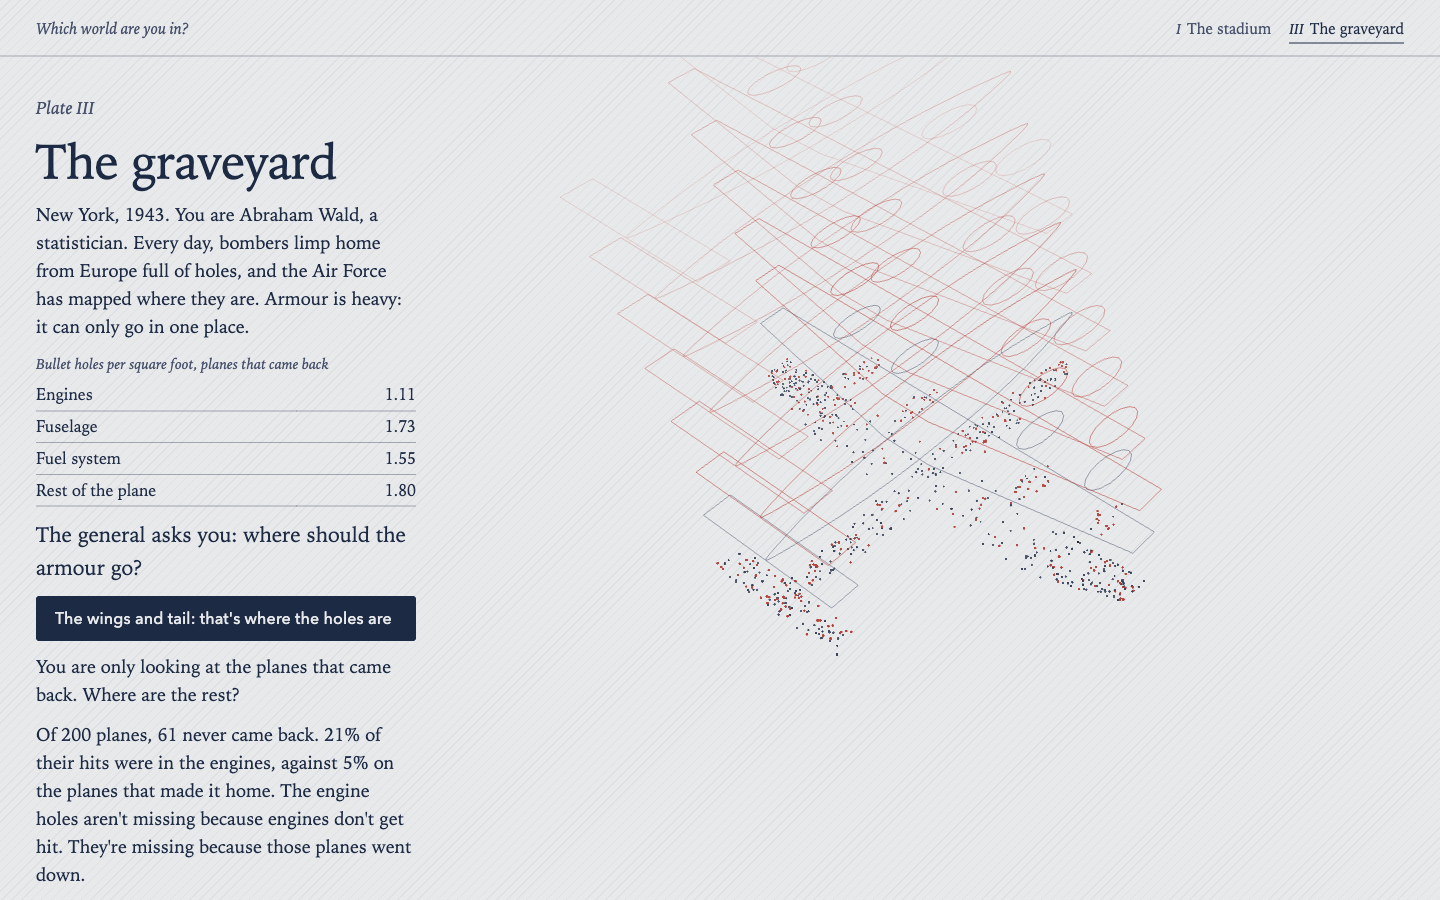
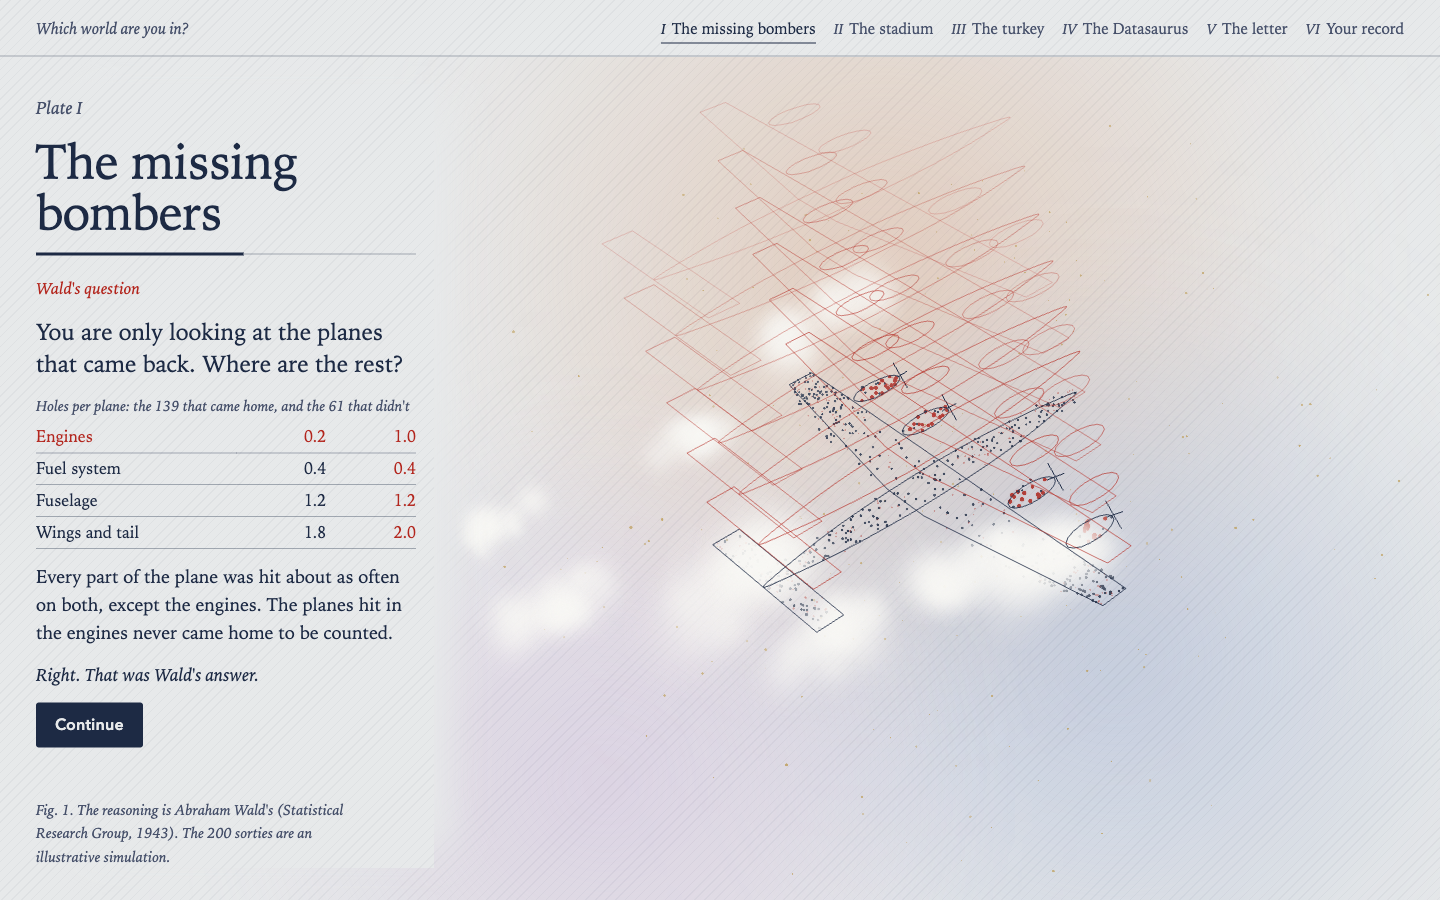
which-world v5: README (bullet count, dreamy look), talk script led by the bombers, gallery image and log
Claude-Session: https://claude.ai/code/session_01Y9Tr48LEf9MKr9XoCG55gA

diff --git a/which-world/index.html b/which-world/index.html
@@ -987,7 +987,7 @@ plates.letter = (() => {
     await s.cont(); if (!s.alive()) return;
     s.card("She sits down holding the letter from the screening service. Her hands are shaking. She hasn't opened it.", "11:42 am");
     await s.cont("Open the letter"); if (!s.alive()) return;
-    s.card("POSITIVE", "The letter"); const l = host$("letter").querySelector(".card .line"); if (l) l.className = "big madder";
+    s.card("POSITIVE", "11:43 am"); const l = host$("letter").querySelector(".card .line"); if (l) l.className = "big madder";
     s.say("The disease is rare: 1 person in 100 has it. The test catches 90% of real cases, and wrongly flags 10% of healthy people.");
     s.say("Sarah looks up at you: <em>“Doctor, how worried should I be?”</em>");
     s.ask("What do you tell her?");

diff --git a/which-world/README.md b/which-world/README.md
@@ -1,33 +1,61 @@
 # Which world are you in?
 
-Six short stories about data, told one card at a time, plus a record of the choices you
-make in them. In each story you take the seat: a stadium engineer, a turkey, Abraham
-Wald, an analyst, a health minister, a GP. The build-up comes a card at a time, each
-one a new shot in the 3D scene. You act with your own hands: open the gates, eat
-breakfast, turn the damaged bomber over, open the letter. Then you make the big call,
-watch it play out, and read the moral of the story.
+Five short stories about data, told one card at a time, plus a record of the choices you
+make in them. In each story you take the seat: Abraham Wald in 1943, a stadium engineer,
+a turkey, an analyst, a GP. The build-up comes a card at a time, each one a new shot in
+the 3D scene. You act with your own hands: open the gates, eat breakfast, turn the
+damaged bomber around, open the letter. Then you make the big call, watch it play out,
+and read the moral of the story.
 
 The stories come from Nassim Taleb's *The Black Swan* and David Spiegelhalter's *The Art
-of Statistics*. The thread through them: Spiegelhalter's statistics tame one kind of
-randomness (*Mediocristan*), Taleb shows where that breaks (*Extremistan*), and a
-better picture is often half the insight.
+of Statistics*, plus Wald's bombers. The thread through them: Spiegelhalter's statistics
+tame one kind of randomness (*Mediocristan*), Taleb shows where that breaks
+(*Extremistan*), and a better picture is often half the insight.
 
-It is drawn in three.js as an engraved atlas: ink on paper, madder red for the extreme
-case, and one black swan hidden in every plate. A single crowd of 1,024 ink dots re-forms
-into each story's scene. You can drag any scene to look around.
+It is drawn in three.js as a dreamy, hand-inked atlas, somewhere between art and chart:
+- ink on paper, with watercolour washes drifting behind each scene;
+- points that glow and float, and gold dust in the air;
+- hairlines drawn twice, slightly off, as if by hand;
+- paper clouds and paper lanterns;
+- madder red for the extreme case, and one black swan hidden in every plate.
+
+A single crowd of 1,024 ink points re-forms into every scene: a murmuration on the title
+page, a bomber's bullet holes, a stadium, a tower of days, a dinosaur, a thousand
+fireflies. You can drag any scene to look around.
 
 **Open:** `index.html`, straight from disk, no server or network needed.
 Live: https://l69d.github.io/art-of-data/which-world/
 
 | plate | your seat | what you do | the decision | what plays out | source |
 |---|---|---|---|---|---|
-| I. The stadium | the engineer, then the fundraiser | open the gates; hold to raise a fortune | reinforce the stand? who to spend the night with? | the heaviest fan adds 0.5%; the richest guest holds 99.9%, a column 18 km tall at this scale; then a log scale | Taleb, ch. 3 |
-| II. The turkey | the turkey | eat breakfast; let the days pass | day 1,000: relax, stay alert, run? | 1,000 fed days climb a spiral tower under a rising sun; day 1,001 falls | Taleb, ch. 4 |
-| III. The graveyard | Abraham Wald, 1943; then a pension fund for 40,000 nurses | turn the bomber over | where to armour? hire the 10-year genius? | the missing planes rise as a ghost formation, hit in the engines; 1 of 1,024 coin-flippers keeps a perfect record | Wald via Ellenberg; Taleb, ch. 8 |
+| I. The missing bombers | Abraham Wald, New York, 1943 | watch the planes come home; turn the bomber around | where should the armour go? | the planes that never came back rise as a red ghost formation, hit in the engines, and drift away into the clouds | Wald, 1943 |
+| II. The stadium | the engineer, then the fundraiser | open the gates; hold to raise a fortune | reinforce the stand? who to spend the night with? | the heaviest fan adds 0.5%; the richest guest holds 99.9%, a column 18 km tall at this scale; then a log scale | Taleb, ch. 3 |
+| III. The turkey | the turkey | eat breakfast; let the days pass | day 1,000: relax, stay alert, run? | 1,000 fed days climb a spiral tower under a rising sun; day 1,001 falls | Taleb, ch. 4 |
 | IV. The Datasaurus | an analyst | open five branch reports | agree with the boss? | a cloud lifts off the page and flattens into a dinosaur, a star, a circle, a bullseye, an X | Spiegelhalter, ch. 2 |
-| V. The league table | the health minister | answer the phone; face the cameras | inspect, sack, or ask for a funnel plot? | the press pack becomes a skyline of 380 districts, then a funnel: the "worst" is small, the outlier ranked 6th | Spiegelhalter, ch. 9 |
-| VI. The positive test | a GP, then a press officer and a headline writer | open Sarah's letter | what do you tell her? which words do you print? | 9 of 108 positives are real (8%), and Sarah is one of the false alarms; "5% die" vs "95% survive"; "+18%" vs 6 → 7 in 100 | Spiegelhalter, ch. 1, 2, 8 |
-| VII. Your record | | | | every choice, marked, with its world and a verdict | |
+| V. The letter | a GP, then a press officer and a headline writer | open Sarah's letter | what do you tell her? which words do you print? | a thousand fireflies take the test: 9 of 108 positives are real (8%), and Sarah is one of the false alarms; "5% die" vs "95% survive"; "+18%" vs 6 → 7 in 100 | Spiegelhalter, ch. 1, 2, 8 |
+| VI. Your record | | | | every choice, marked, with its world and a verdict | |
+
+## Wald's bombers, by the bullet count
+
+- **The story:** Abraham Wald's work at the Statistical Research Group in 1943. It is
+  not in either book.
+- **The simulation:** illustrative (`bombers()`, seed 5). There are 200 sorties, each
+  plane takes 1 + Poisson(3) hits, and each hit lands on a part of the airframe in
+  proportion to its area. An engine hit brings a plane down 60% of the time; a hit
+  anywhere else rarely does.
+- **What the page shows:** the average number of bullet holes per plane, part by part
+  (`bomberCounts()`).
+
+| holes per plane | came home (139) | never came back (61) |
+|---|---|---|
+| engines | 0.2 | 1.0 |
+| fuel system | 0.4 | 0.4 |
+| fuselage | 1.2 | 1.2 |
+| wings and tail | 1.8 | 2.0 |
+
+Every part is hit about as often on both groups of planes, except the engines, and that
+comparison doesn't depend on how big each part is. `test_model.mjs` checks it: engines
+hit more than 3× as often on the lost planes; fuselage and wings within 25%.
 
 ## Data and what's simulated
 
@@ -43,29 +71,16 @@ Live: https://l69d.github.io/art-of-data/which-world/
   - Our choices, within those bounds: the heaviest person is 400 kg, which gives 0.5%.
     The other 1,000 hold $80M together, which gives exactly 99.9%.
   - The "18 km" line is the richest fortune divided by the median guest's, at one
-    centimetre per median fortune.
+    centimetre per median fortune. The drawn column is capped; it leaves the frame
+    either way.
   - The crowd is simulated with seed 7.
 - **The turkey** is simulated. Its confidence is Laplace's rule of succession,
   (d+1)/(d+2) after d fed days.
-- **Wald's bombers**:
-  - The story is Abraham Wald's work at the Statistical Research Group in 1943. It is
-    not in either book.
-  - The holes-per-square-foot table (engines 1.11, fuselage 1.73, fuel system 1.55,
-    rest 1.80) is as popularised by Jordan Ellenberg, *How Not to Be Wrong* (2014).
-  - The ink simulation is illustrative: `bombers()`, seed 5, 200 sorties, with engine
-    hits the most lethal.
-  - `test_model.mjs` checks that the planes that came home show far fewer engine hits
-    than all the planes did.
-- **The fund managers** are exact, not simulated. Manager *i*'s ten yearly results are
-  the bits of *i*, so the 1,024 managers are every possible run of ten coin flips.
-- **The league table** is simulated from Spiegelhalter's bowel-cancer example:
-  - 380 districts share a rate of 17 per 100,000, except one large district at 1.6×.
-  - Seed 1 is the first seed where the top of the table sits inside the 99.8% limits
-    and that district is the only one outside them. `test_model.mjs` checks both.
-- **The positive test** uses 90% sensitivity and 90% specificity, as in the book.
-  Sarah is invented. She is the first false alarm among the 1,000 at 1-in-100 prevalence,
-  so her story matches the data. Bacon's "18% higher" lifetime risk goes from 6 in 100
-  to 7 in 100.
+- **The letter:**
+  - The test has 90% sensitivity and 90% specificity, as in the book.
+  - Sarah is invented. She is the first false alarm among the 1,000 at 1-in-100
+    prevalence, so her story matches the data.
+  - Bacon's "18% higher" lifetime risk goes from 6 in 100 to 7 in 100.
 
 ## three.js
 
@@ -79,7 +94,7 @@ and ES modules don't load from `file://`.
 ```sh
 python3 fetch_datasaurus.py   # re-download derived/datasaurus.csv
 python3 test_data.py          # the five Datasaurus sets share their stats
-node test_model.mjs           # every number the stories show, and the inlined data = CSV
+node test_model.mjs           # the key numbers the stories show, and the inlined data = CSV
 ```
 
 The Datasaurus sets are inlined in `index.html`, because a page opened from `file://`
@@ -94,13 +109,15 @@ print('const DINO = {'+','.join(k+':'+str(d[k]).replace(' ','') for k in ['dino'
 
 ## At the booth
 
-- Open it fullscreen in Chrome or Safari. Plates are deep-linkable: `#stadium`,
-  `#turkey`, `#graveyard`, `#dino`, `#funnel`, `#test`, `#record`.
+- Open it fullscreen in Chrome or Safari, on a laptop with a real graphics chip. The
+  scenes are gentle but continuous, and headless or software rendering will crawl.
+- Plates are deep-linkable: `#bombers`, `#stadium`, `#turkey`, `#dino`, `#letter`,
+  `#record`.
 - Visitors click an option at every "What do you do?". Space presses Continue and the
   "Eat" or "Open the gates" style buttons, and holding Space works the hold buttons. It
   never picks an option for them. ←/→ moves between plates. Dragging any scene turns the
   camera.
-- A full visit takes about 15 minutes. Most visitors will play two or three stories;
+- A full visit takes about 12 minutes. Most visitors will play one to three stories;
   "Your record" works with any number.
 - After 60 seconds without input the page returns to the title for the next visitor,
   which also clears their record. Add `?talk` to switch that off while presenting.

diff --git a/which-world/TALK.md b/which-world/TALK.md
@@ -1,58 +1,55 @@
 # Talk: Which world are you in? (about 3 minutes)
 
 Open `index.html?talk` fullscreen. Hand the judges the mouse: they make every choice,
-and you read the cards aloud and press Space. The script plays Plate I and the heart of
-Plate III, then shows the record.
+and you read the cards aloud and press Space. The script plays Plate I, the missing
+bombers, in full, shows one moment from the stadium, then shows the record.
 
 ## 0:00 Open (15 s)
 
-*Title plate, with the stadium turning slowly.*
+*The title plate: a murmuration of ink birds, one black swan among them.*
 
-> "Six short stories about data. In each one, you sit in someone's seat and make the
+> "Five short stories about data. In each one you sit in someone's seat and make the
 > call. Take the mouse."
 
-## 0:15 The stadium (70 s)
+## 0:15 The missing bombers (100 s)
 
-*Plate I. Read the cards; let the judge press "Open the gates" and watch the fans pour in.*
+*Plate I. Read the cards; let the formation cross, and the planes come home.*
 
-> "You're the engineer. The heaviest person imaginable just bought the last ticket.
-> What do you do?"
+> "New York, 1943. You're Abraham Wald. Every bomber that doesn't come back is ten men.
+> The Air Force has counted every bullet hole on every plane that came home."
 
-Reveal: **0.5%**. "The stand never noticed."
+At the hangar, point at the table:
 
-> "Midnight. Same thousand people, now at your charity gala. The richest person on Earth
-> walks in. Where do you spend your evening?"
+> "Two holes per plane in the wings and tail. One engine hit for every five planes. Armour
+> is heavy, and the general can protect one place. Where does it go?"
 
-Let the judge **hold** to raise the fortune: the column leaves the sky, **99.9%**, 18 km
-tall at this scale.
+Let the judge choose. Then the red ghost formation rises:
 
-> "Taleb calls these two worlds Mediocristan and Extremistan. Your gut used one rule for
-> both."
+> "These are the planes that never came back. Look at the table: every part was hit
+> about as often on both groups of planes, except the engines. One hit per plane on the
+> planes that went down. The engine holes weren't missing because engines don't get
+> hit. They were missing because those planes never made it home to be counted."
 
-Press "Draw it on a log scale": the thousand come back. "A better picture is half the
-insight."
+Let the ghosts drift into the clouds, and read the moral.
 
-## 1:25 The bomber (60 s)
+## 1:55 The stadium, briefly (40 s)
 
-*Plate III. Skip ahead to "The general's office" with → and Space if time is short.*
+*Press → to Plate II and run it quickly, or just describe it.*
 
-> "1943. You're Abraham Wald. The bombers come home with holes everywhere except the
-> engines. Where does the armour go?"
+> "Same trap, other direction. The heaviest person imaginable adds half a percent to a
+> stadium's weight. The richest person on Earth holds 99.9% of the gala's wealth: a
+> column eighteen kilometres tall on this scale. Taleb calls these two worlds
+> Mediocristan and Extremistan, and our gut uses one rule for both."
 
-After the choice, the red ghost formation rises:
+## 2:35 Your record (20 s)
 
-> "The engine holes aren't missing because engines don't get hit. They're missing
-> because those planes went down. The same trap hires fund managers today."
+*Plate VI: the judges' own choices, marked, around a turning globe of ink.*
 
-## 2:25 Your record (25 s)
+> "Every call you made, and the world it belonged to. The turkey, the Datasaurus and
+> Sarah's letter are waiting at the booth. Which world you're in, and how you draw it,
+> decide half the answer."
 
-*Plate VII: the judges' own choices, marked, around a turning globe of ink.*
+## 2:55 Close (5 s)
 
-> "Every call you made, and the world it belonged to. The turkey, the analyst, the
-> minister and the GP are waiting at the booth. Which world you're in, and how you draw
-> it, decide half the answer."
-
-## 2:50 Close (10 s)
-
-> "One offline HTML file in three.js, built with Claude from two books. Every number on
-> screen is checked against them by a test."
+> "One offline HTML file in three.js, built with Claude from two books and a war story.
+> The key numbers on screen are checked by tests."

diff --git a/README.md b/README.md
@@ -11,11 +11,11 @@ the data needs 3D, scale, or motion.
 | piece | dataset | built with |
 |---|---|---|
 | [Shipman deaths by age](https://l69d.github.io/art-of-data/shipman-data/age_by_year.html) | [Shipman Inquiry case decisions](shipman-data/) — 531 deaths, 1974–1998 | SVG + vanilla JS |
-| [Which world are you in?](https://l69d.github.io/art-of-data/which-world/) | [The Datasaurus Dozen, Wald's bombers + figures from *The Black Swan* and *The Art of Statistics*](which-world/) — six stories you play from the driver's seat, and your record | three.js (vendored) + SVG, offline |
+| [Which world are you in?](https://l69d.github.io/art-of-data/which-world/) | [Wald's bombers, the Datasaurus Dozen + figures from *The Black Swan* and *The Art of Statistics*](which-world/) — five dreamy stories you play from the driver's seat | three.js (vendored) + SVG, offline |
 
 ![Shipman deaths by age](shipman-data/shipman-scatter.png)
 
-![Which world are you in? Plate III, the bombers that never came back](which-world/preview.png)
+![Which world are you in? Plate I, the bombers that never came back](which-world/preview.png)
 
 ## Layout
 
@@ -64,3 +64,8 @@ One folder per dataset. Each one holds:
   a ghost formation, a sun over the turkey's tower, a ministry with its press pack, report
   sheets, Sarah). Review fixes from v3: idle reset clears the record, scrollbar-safe renderer,
   phone layout.
+- **2026-09-25** — Which world are you in? v5: trimmed to five stories with Wald's bombers
+  first; Wald told by the bullet count (holes per plane, part by part: engines 0.2 on the
+  planes that came home, 1.0 on the ones that didn't); a dreamy, hand-inked look (watercolour
+  washes, glowing floating points, gold dust, sketched lines, paper clouds and lanterns, a
+  murmuration on the title page). The league table and the fund managers were cut.
